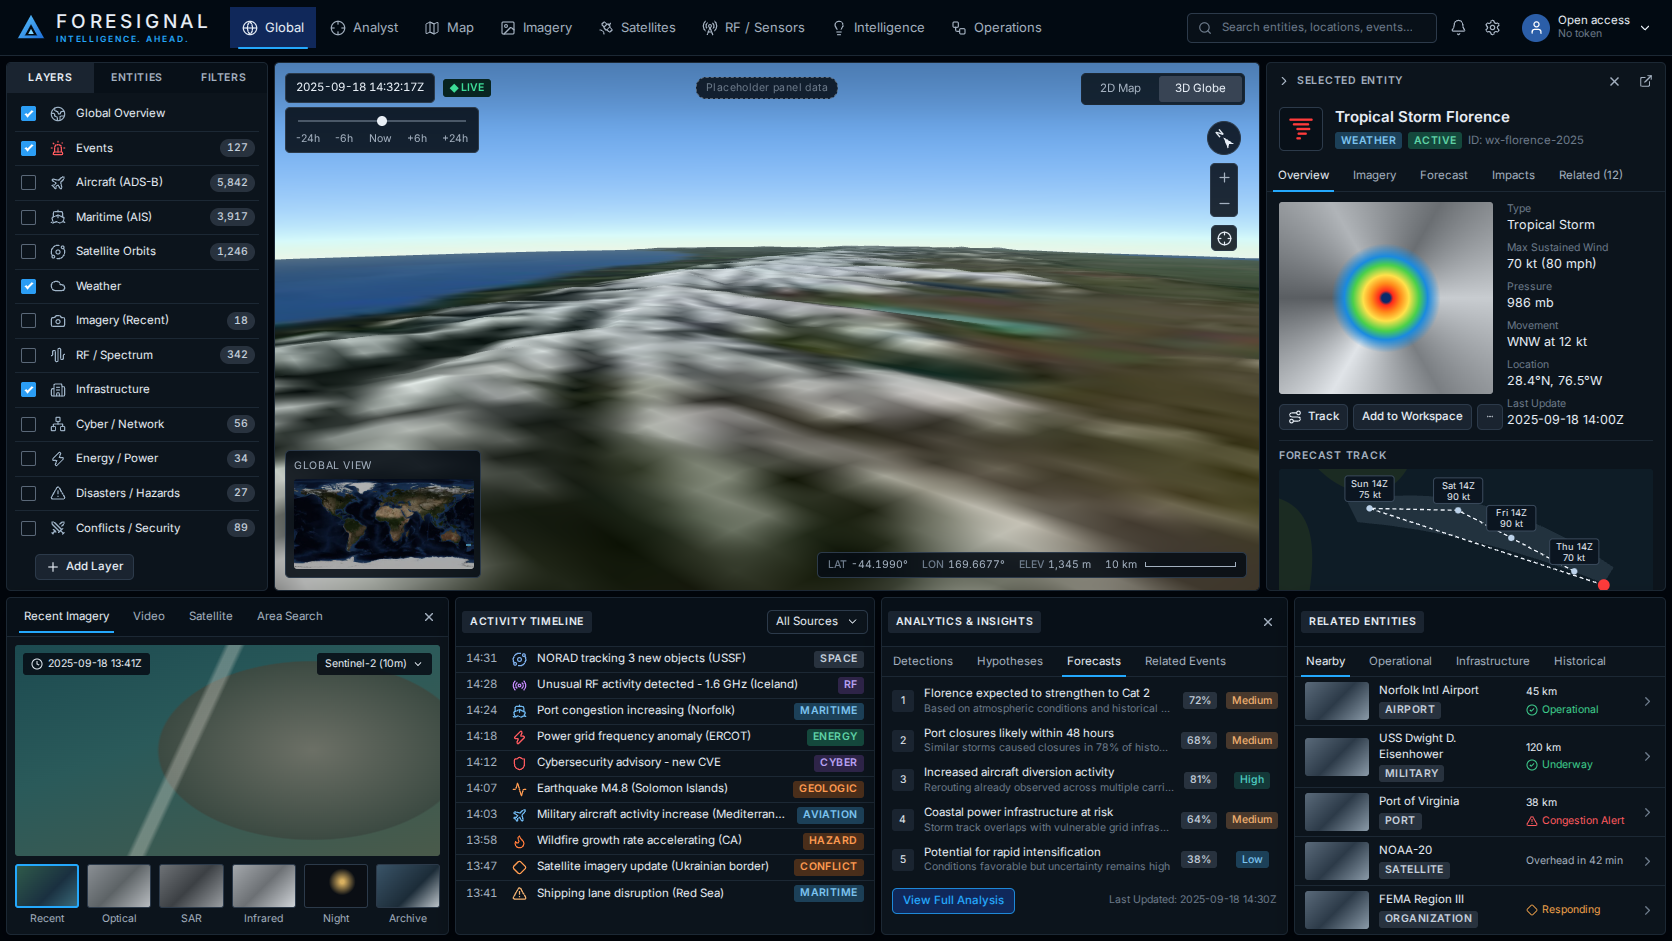
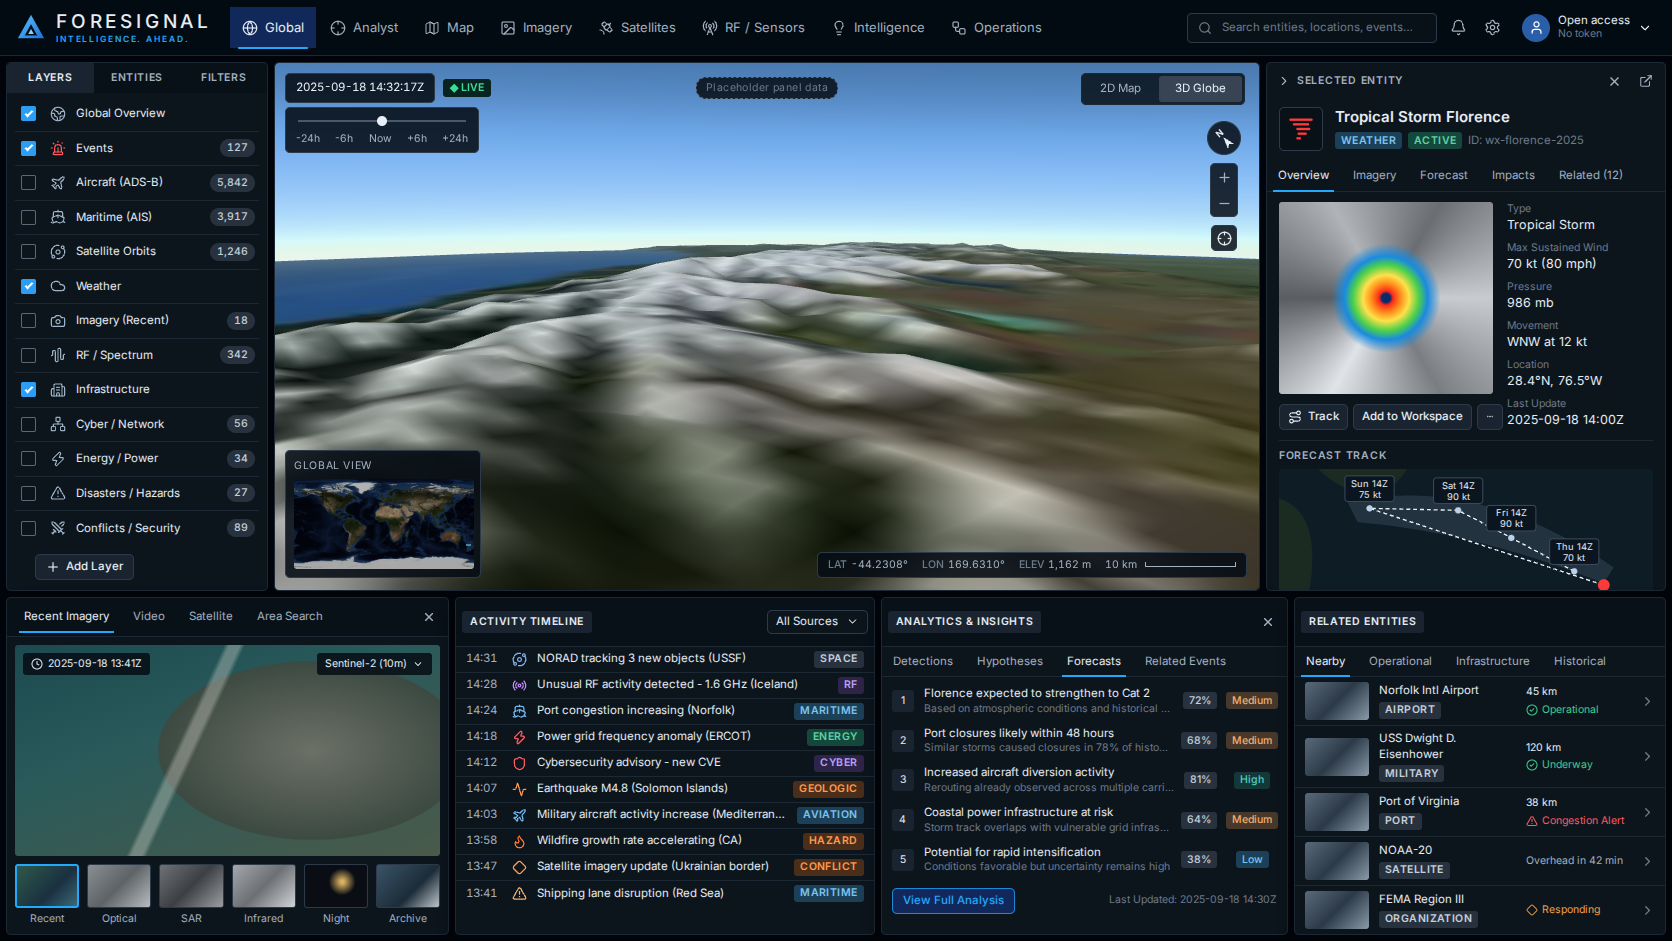
005: 2x vertical exaggeration of the 3D terrain
The 3D globe draws terrain at twice its height (VERTICAL_EXAGGERATION,
set in styleScene) so relief reads at regional and globe scale. ELEV
still reads true heights from the terrain data. Terrain stays at level 6
with no vertex normals.

Changed region(s): [[0.1555, 0.2465, 0.7775, 0.6472], [0.7464, 0.3698, 0.7775, 0.4006]]

diff --git a/src/map/view.test.ts b/src/map/view.test.ts
@@ -6,7 +6,13 @@ import {
   type Cartesian3,
   type Viewer as CesiumViewer,
 } from 'cesium';
-import { HOME_VIEW, homeDestination, styleScene, switchSceneMode } from './view';
+import {
+  HOME_VIEW,
+  homeDestination,
+  styleScene,
+  switchSceneMode,
+  VERTICAL_EXAGGERATION,
+} from './view';
 
 describe('view', () => {
   it('places the home destination at the home longitude, latitude and height', () => {
@@ -16,9 +22,10 @@ describe('view', () => {
     expect(home.height).toBeCloseTo(HOME_VIEW.height, 0);
   });
 
-  it('colors space and the bare globe with the dark theme and lights the globe by the sun', () => {
+  it('colors space and the bare globe with the dark theme, lights it by the sun and raises relief', () => {
     const viewer = {
       scene: {
+        verticalExaggeration: 1,
         backgroundColor: Color.WHITE,
         globe: { baseColor: Color.WHITE, enableLighting: false },
       },
@@ -27,6 +34,8 @@ describe('view', () => {
     expect(viewer.scene.backgroundColor.toCssHexString()).toBe('#02060c');
     expect(viewer.scene.globe.baseColor.toCssHexString()).toBe('#0b1a2a');
     expect(viewer.scene.globe.enableLighting).toBe(true);
+    expect(VERTICAL_EXAGGERATION).toBe(2);
+    expect(viewer.scene.verticalExaggeration).toBe(VERTICAL_EXAGGERATION);
   });
 });
 

diff --git a/src/map/view.ts b/src/map/view.ts
@@ -20,10 +20,18 @@ export function supportsWebGL(): boolean {
 }
 
 /**
- * Applies the dark theme to a viewer's scene (space and the globe's no-imagery color) and turns on
- * the globe's sun lighting, which drives the day/night basemap blend.
+ * How much the 3D globe stretches terrain heights, so relief reads at globe scale. Only the drawing
+ * is stretched: the ELEV readout reads the terrain data, so it shows true heights.
+ */
+export const VERTICAL_EXAGGERATION = 2;
+
+/**
+ * Applies the dark theme to a viewer's scene (space and the globe's no-imagery color), turns on the
+ * globe's sun lighting, which drives the day/night basemap blend, and exaggerates terrain heights by
+ * {@link VERTICAL_EXAGGERATION}.
  */
 export function styleScene(viewer: CesiumViewer): void {
+  viewer.scene.verticalExaggeration = VERTICAL_EXAGGERATION;
   viewer.scene.globe.enableLighting = true;
   viewer.scene.backgroundColor = Color.fromCssColorString('#02060c');
   viewer.scene.globe.baseColor = Color.fromCssColorString('#0b1a2a');

diff --git a/src/map/index.ts b/src/map/index.ts
@@ -6,6 +6,7 @@ export {
   styleScene,
   supportsWebGL,
   switchSceneMode,
+  VERTICAL_EXAGGERATION,
   type GroundView,
   type SwitchableViewer,
 } from './view';
